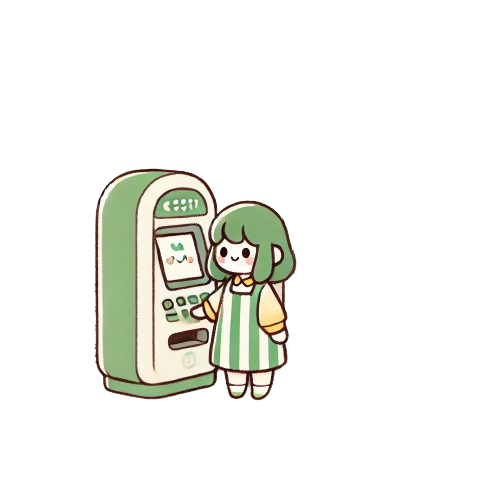
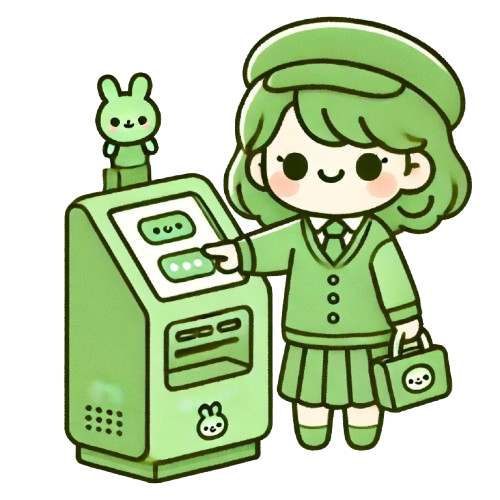
1

diff --git a/src/main/resources/templates/guide/guide.html b/src/main/resources/templates/guide/guide.html
@@ -51,14 +51,14 @@
         <p>여름철 폭염을 대비해 주민들에게 쾌적한 쉼터를 제공할 위치를 분석합니다.</p>
       </div>
       <div class="service-item">
-        <img src="/images/키오스크.png" alt="키오스크 위치 추천" style="width: 500%; max-width: 400px; margin-bottom: 15px;">
-        <h3>키오스크 위치 추천</h3>
+        <img src="/images/키오스크.png" alt="키오스크 위치 추천" style="width: 100%; max-width: 250px; margin-bottom: 15px;">
+        <h3>무인발급기</h3>
         <p>사용자 이용 패턴을 분석하여 키오스크 설치의 최적 위치를 제안합니다.</p>
       </div>
       <div class="service-item">
-        <img src="/images/교통1.png" alt="교통 정보 시각화" style="width: 100%; max-width: 250px; margin-bottom: 15px;">
-        <h3>교통 정보 시각화</h3>
-        <p>교통 데이터를 시각화하여 도로 이용 현황과 이동 흐름을 효과적으로 파악합니다.</p>
+        <img src="/images/와이파이.png" alt="공공 와이파이" style="width: 100%; max-width: 250px; margin-bottom: 15px;">
+        <h3>공공 와이파이</h3>
+        <p>공공 와이파이 설치를 위한 최적의 입지를 분석하여 위치를 제안합니다.</p>
       </div>
     </div>
   </div>
